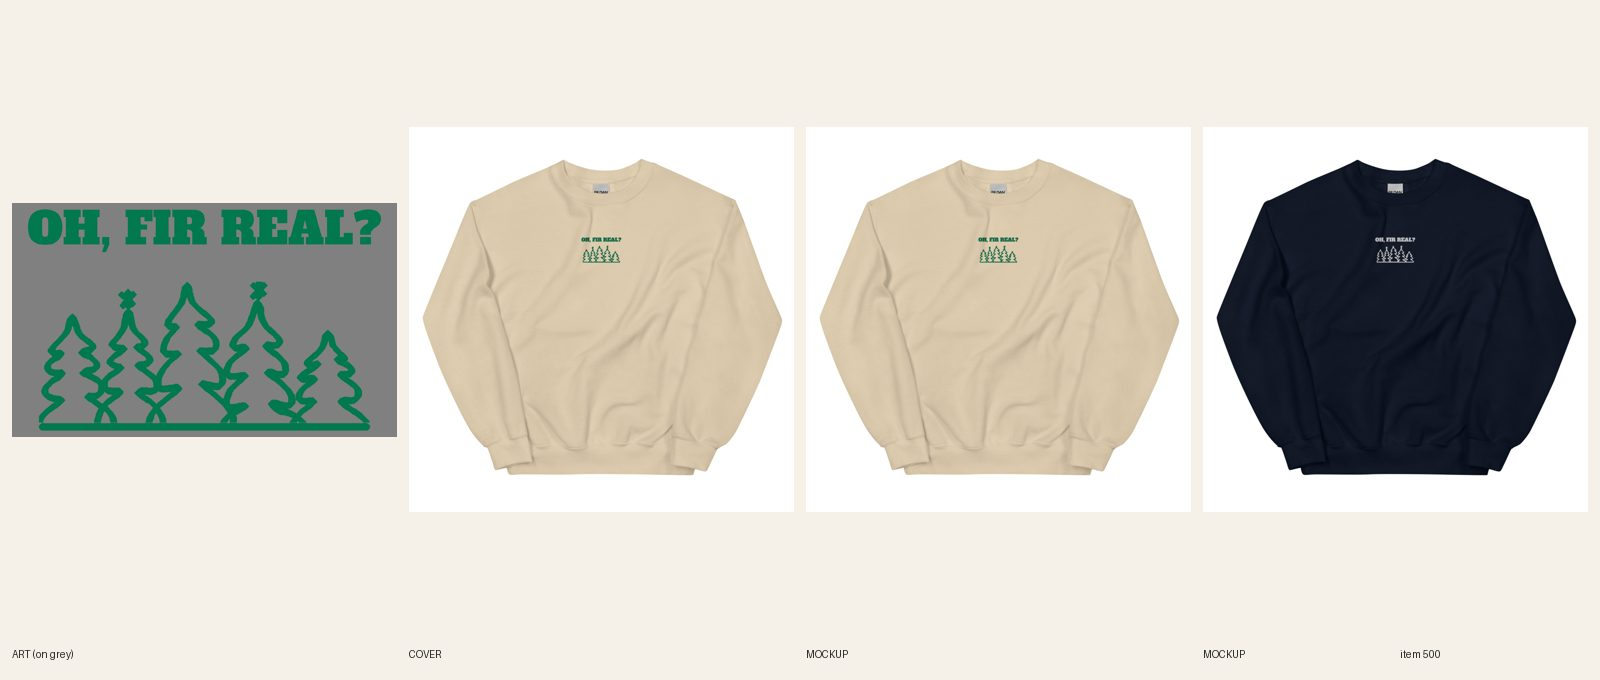
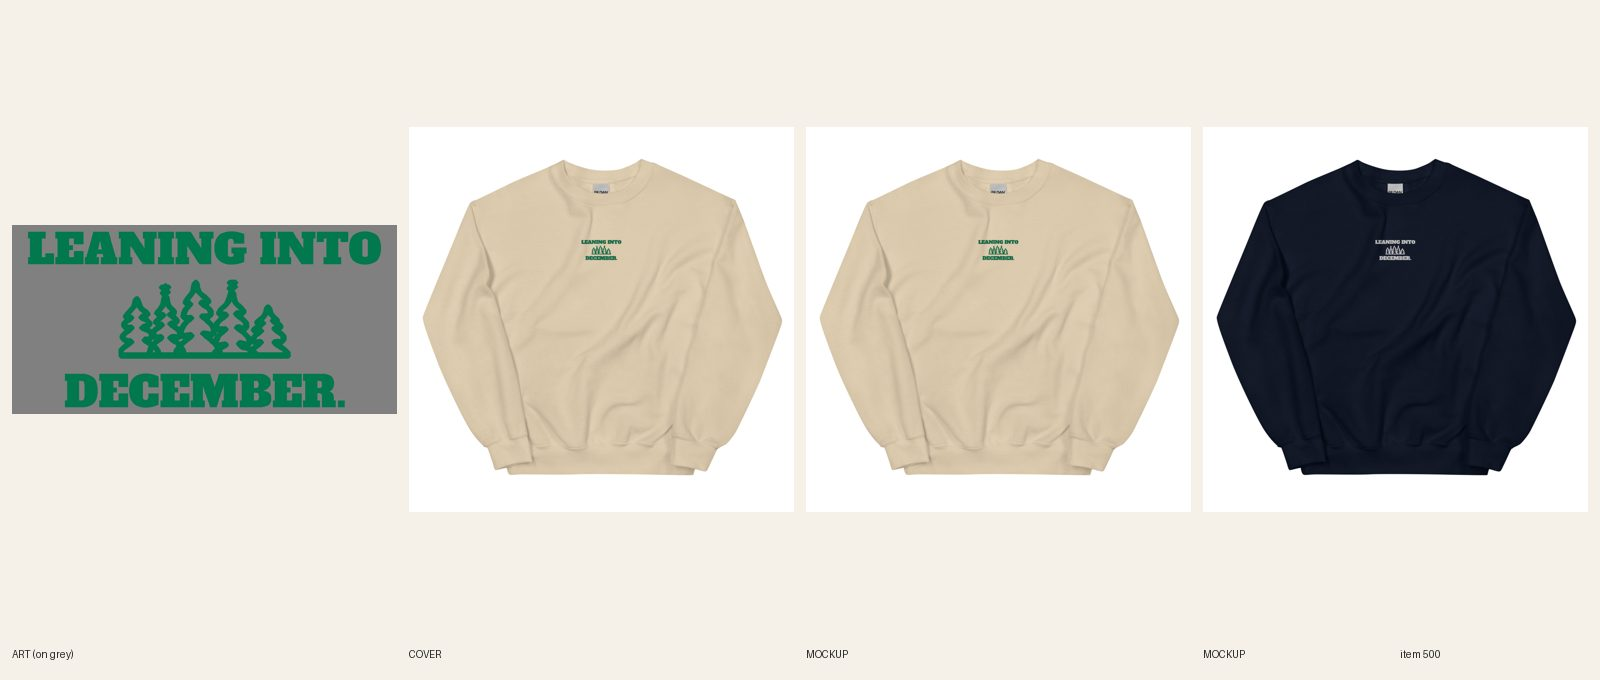
[A] review 500 Leaning Into December embroidered crewneck (redo 2)
Claude-Session: https://claude.ai/code/session_01LaaEYpKaSBZd9opL7Tpo7i

diff --git a/docs/pipeline/500-christmas-embroidered-crew-merry-ish.md b/docs/pipeline/500-christmas-embroidered-crew-merry-ish.md
@@ -1,4 +1,4 @@
-status: BUILDING [A] 2026-10-20 11:42 UTC
+status: REVIEW
 lane: A
 type: new
 id: 500
@@ -36,3 +36,4 @@ kd: 58
 - 2026-10-18 17:22 UTC director: QUALITY RESET grade C (new line + type), REDO. The product stays ACTIVE (same handle, URL, title keyword). 1. Line (R3.12, quality-reset 'Lines'): "merry-ish": One-word mild aside; no joke; small script embroidery. Write 5 candidates, keep the one a stranger laughs at in 3 seconds without backstory; kill lines that only describe the picture; if none of the 5 is funny, PARK it. 2. Quality reset type bar (docs/backlog/quality-reset.md, 'The new bar'): headline at least 90% of the art width, heavy, colors pulled from the art; second line at least 45% of the headline's height, never a thin script on a dark or mid garment; use the lettering as a shape (arch, stacked lockup, words breaking into the art), not a plain bar above and a script line below; no font used on more than 1 in 6 of the last 30 designs. 3. Keep the art if it carries the new line, else one new illustration (R4/R5). New print means a new cover per R6.10, copy line one rewritten for the new joke (R8.3), and a fresh review sheet (R7.7). While quality-reset.md says PAUSED, only lane A builds, and only the samples step 2 names.
 - 2026-10-20 09:19 UTC builder [A]: REDO grade C done (new line; embroidery). Line: OH, FIR REAL? (5 candidates; the tree-farm pun kept as one big line; title and handle unchanged). Same five-tree line art (old merry-ish script dropped, 1200x530), headline in Alfa Slab One at full width above the trees (lockup 1200x744), emb-prep: 3.67 x 2.30 in at true scale, p10 stroke 1.52 mm, headline caps about 11 mm tall (a second line was tried and dropped: its caps came out 5.3 mm, under the 6 mm floor). Thread: green #01784E on Sand (file 1090273770), white #FFFFFF on Navy (file 1090273779), flat stitch. pf-emb-sync verified 12/12 (Sand 6, Navy 6; back logo kept). 2 fronts replaced in place (Printful v2 mockups, fileUpdate). Copy: Story line one, art sentence, FAQ 2 and gift FAQ updated; SEO title/meta updated; 5 FAQs, Dec 8 kept; no R8.3 opener. Cover: handle added to retired-covers.json (plain product shot). fal $0. audit --handle PASS; astro build ok.
 - 2026-10-20 10:55 UTC director: REDO from docs/review/500.jpg (product stays ACTIVE). 1. R3.1 / R3.13: OH, FIR REAL? is a sound-alike pun (for real -> fir) with no second meaning a buyer would use; it reads as a groan, not the cropped-hoodie voice. Write 5 candidates for the five-tree stitch (self-aware, 2-6 words, no pun, not SORRY/BOOKED per card 7j), compare with Politely, No. / Oops. Anyway. / Wildly Low Maintenance, keep the best. 2. Keep stitched caps at 0.3 in or more (R4.8); two short lines are fine if each clears it. 3. New title per card 7i.
+- 2026-10-20 11:59 UTC builder [A]: REDO 2 (director 2026-10-20 10:55: OH, FIR REAL? was a sound-alike pun; stitched caps 0.3 in; new title) done. Five candidates for the five-tree stitch (self-aware, 2-6 words, no pun, not SORRY/BOOKED): LEANING INTO DECEMBER. (the trees lean, so does she), THEY ALL LEAN. SAME., LOPSIDED. FESTIVE., CROOKED. NO REGRETS., WE DON'T PRUNE.; kept LEANING INTO / DECEMBER. against Politely, No. / Oops. Anyway. / Wildly Low Maintenance (a seasonal surrender, wearer in on it). Same five-tree line art (thickened 17 px before composing so the thread does not fuse and no letter counter closes; emb-prep thickened 0 px, p10 stroke 1.69 mm), LEANING INTO above, DECEMBER. below, Alfa Slab One, size 3.67 x 1.83 in; stitched caps 0.343 in and 0.353 in (R4.8 floor 0.3). Thread green #01784E on Sand (file 1090336526), white #FFFFFF on Navy (file 1090336557), flat stitch; pf-emb-sync verified 12/12. 2 fronts replaced in place. New title (card 7i): "Women's Christmas – Leaning Into December Embroidered Crewneck Sweatshirt"; SEO title/meta, line one, art sentence, size FAQ, gift FAQ updated. Plain product shot kept. fal $0. audit PASS; build ok.

diff --git a/docs/intake-log.md b/docs/intake-log.md
@@ -1,5 +1,6 @@
 RUNNING lane E since 2026-10-20 12:30 UTC
 2026-10-20 11:46 UTC — [H] Helper run: Telegram inbox empty (getUpdates returned 0 updates; no pause, resume or TikTok links; nothing to consume). Audit 610 live products: 0 errors, 37 warnings left alone; committed docs/cohesion-audit.md and .json (npm ci first). Category check: 0 products without a Shopify category (query empty). Site check: mens-welder-grinder-and-paint-department-hoodie, mens-electrician-its-probably-the-breaker-graphic-tee, mens-plumber-not-looking-at-your-sink-graphic-tee all 200. Stuck-work: lane A RUNNING line from 02:28 UTC is still open (lane A committed within the hour per the 10:49 run; alerted once at 10:49, no repeat sent). Nothing BUILDING over 3h found. Daily summary not due (before 12:00 UTC). Lock released.
+2026-10-20 11:59 UTC — [A] Builder run: redid #500 Women's Christmas Embroidered crewneck again (new line LEANING INTO / DECEMBER., no pun, caps 0.34-0.35 in, new title, 12/12 relinked on files 1090336526 / 1090336557, fronts replaced in place). REVIEW. fal $0.
 2026-10-20 13:00 UTC — [C] Run summary: 3 redos to REVIEW (#507 round 4 forest band removed + MY TYPE? widened; #509 round 3 canyon block broken into free-form shapes + chest copy rebuilt; #508 round 3 new line NO ITINERARY. / JUST GRAZING., bison cut free of the meadow block, new title). All relinked and verified on the Printful API, Shopify media replaced in place, copy updated. Not built: sweatpants #711-#715 (still PARKED at the R5.2 favorites-proof gate; needs the director or Sam to supply a 500+ favorites listing or waive it), #457/#458 Hanukkah (R3.15), #604 (waits on source #543), READY #627 #639-#648 #698 #699 left untouched (pre-reset briefs: thin script captions and new covers conflict with the RESUME terms; director to re-score). fal $0. Lock released.
 2026-10-20 11:52 UTC — [A] Builder run: redid #491 Women's Embroidered Ghost crewneck again (new line CAN'T. / I'M READING., caps 0.39-0.41 in, new title, 12/12 relinked on files 1090331725 / 1090331732, fronts replaced in place). REVIEW. fal $0.
 2026-10-20 11:35 UTC — [B] Builder run (cold-weather): no buildable cold-weather item. Only #498 embroidered crew is REDO and its note is unchanged since the 06:20 release (R3.14 re-grade needed from the director); every other lane B item is a tee. Nothing built, fal $0. Lock released.
